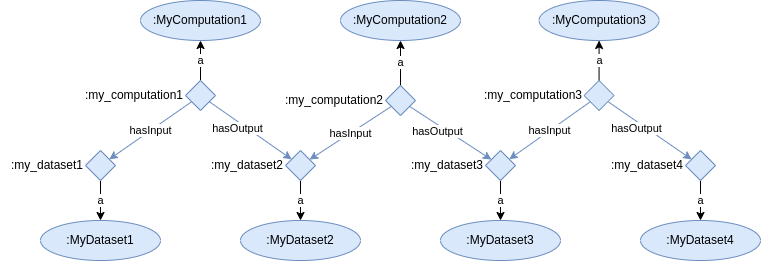
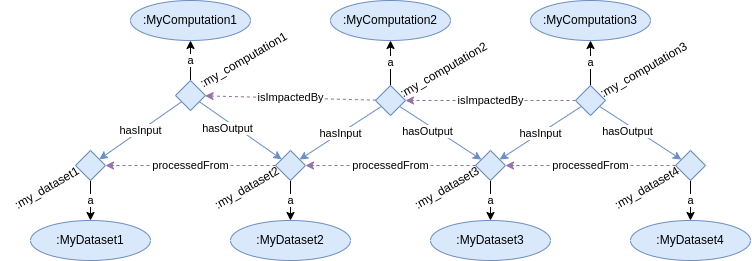
Documented the remaining steps.

diff --git a/examples/tools/README.md b/examples/tools/README.md
@@ -2,6 +2,8 @@
 
 This example is intended to be a simple guide for how to step-by-step semantically document software tools, datasets and workflows.
 
+The aim of the documentation is to enhance reusability by providing context in the form of [linked data], that relates the various resources to each other using relations with semantically well-defined meaning.
+
 - [Important underlying principles](#important-underlying-principles)
   - [Individuals versus Classes](#individuals-versus-classes)
   - [Documenting the processes and their relationships to potential real datasets](#documenting-the-processes-and-their-relationships-to-potential-real-datasets)
@@ -9,22 +11,24 @@ This example is intended to be a simple guide for how to step-by-step semantical
 - [How to do this in practice](#how-to-do-this-in-practice)
   - [1. Documentation of software tools](#1-documentation-of-software-tools)
   - [2. Documentation of related resources](#2-documentation-of-related-resources)
-  - [3. Documentation of dataset types](#3-documentation-of-dataset-types)
+  - [3. Documentation of computation and dataset types](#3-documentation-of-computation-and-dataset-types)
   - [4. Documentation of actual datasets](#4-documentation-of-actual-datasets)
   - [5. Documentation of executed workflows](#5-documentation-of-executed-workflows)
   - [6. Documentation of content of datasets](#6-documentation-of-content-of-datasets)
+-[List of templates](#list-of-templates)
 
 
 ## Important underlying principles ##
 
 ### Individuals versus Classes ###
 
-We distinguish between individuals and classes. Individuals are specific instances of a concept, while classes are general categories that can have multiple instances. For example, a specific software tool would be an individual, while the category of software tools would be a class.
+We distinguish between individuals and classes.
+Individuals are specific instances of a concept, while classes are general categories that can have multiple instances. For example, a specific software tool would be an individual, while the category of software tools would be a class.
 
 
 ### Documenting the processes and their relationships to potential real datasets ###
 
-The figure below illustrates the documentation of software tools the type of computation they implements and the type of datasets it takes as input and output (step 1 to 3 under [How to do this in practice]).
+The figure below illustrates the documentation of software tools the type of computation they implements and the type of datasets it takes as input and output (step 1 to 3 under [How to do this in practice](#how-to-do-this-in-practice)).
 Here a **computation class** is related to a **software individual** and the types of datasets (i.e. **dataset classes**) it takes as input and output.
 It is important to realise that at this level of the documentation we focus on documenting the processes that we can run and their relationships to potential real datasets.
 
@@ -45,12 +49,13 @@ The main interface for this semantic documentation is simple spreadsheets with w
 The names in the column headers are under the hood mapped to ontological concepts via a [JSON-LD] context.
 However, a normal user is not exposed to the complexity of semantic technologies.
 The important thing to understand is that these headers are not just arbitrary names, but they have a specific meaning in the context of semantic documentation.
-Instead, the user is presented with a simple set of [spreadsheet templates].
+Instead, the user is presented with a simple set of spreadsheet [templates].
 Each documented resource will be a row in one of these templates.
 
 Since the FAIR principles demand that all resources must have a globally [unique and persistent identifier], all the templates have a column labeled "@id".
 This column should contain an IRI.
-These IRIs can be written is as [URI]s, like <https://he-matchmaker.eu/resource/my_software>, or as compact URIs (so-called [CURIE]s), like mm:my_software, where the prefix `mm` is a shorthand for the namespace <https://he-matchmaker.eu/resource/>, intended for MatCHMaker-owned resources.
+These IRIs can be written is as [URI]s, like <https://he-matchmaker.eu/resource/my_software>, or as compact URIs (so-called [CURIE]s), like mm:my_software,
+where the prefix `mm` is a shorthand for the namespace <https://he-matchmaker.eu/resource/>, intended for MatCHMaker-owned resources.
 
 For semantics, it is also important to document the type of the resource.
 Hence, all templates also have a column labeled "@type".
@@ -64,41 +69,182 @@ For a minimal documentation of a software tool, the user should fill in table su
 See the [software template] for a more elaborate template.
 Note that software tools are documented as individials in the ontology, and not as classes, since we are documenting specific instances of software tools, and not general categories of software tools.
 
-| @id | @type | title | description |
-|-----|-------|-------|-------------|
-|     |       |       |             |
+| @id            | @type         | title       | description                   |
+|----------------|---------------|-------------|-------------------------------|
+| mm:my_software | emmo:Software | My Software | Description of my software... |
 
 The expected values for each column are:
 
 - **@id**: Unique persistent identifier, in the form of an [URI] or [CURIE].
 - **@type**: Type of the software. In the general case, it could be `emmo:Software`, but if a more specialised subclass is known, it should be used. This must refer to a concept in an ontology, such as the [EMMO], and not to a free text string.
 - **title**: Name or title of the software as a string.
-- **description**: A human readable description of the software, also a string.
+- **description**: A human readable description of the software as a string.
 
 
 ### 2. Documentation of related resources ###
 
-The aim of the documentation is to enhance reusability by providing context in the form of [linked data], that relates the various resources to each other using relations with semantically well-defined meaning.
+The minimal documentation in the previous section does not provide sufficient information to access and use it.
+For that, we will add a few additional columns to our table:
 
-Hence, the table in the previous section can be extended with additional columns.
+| @id            | @type         | title       | description                   | rightsHolder              | license                                      | landingPage                                   |
+|----------------|---------------|-------------|-------------------------------|---------------------------|----------------------------------------------|-----------------------------------------------|
+| mm:my_software | emmo:Software | My Software | Description of my software... | https://ror.org/0422tvz87 | https://creativecommons.org/licenses/by/4.0/ | https://github.com/HEU-MatCHMaker/my_software |
+
+Meaning of the extra columns:
+
+- **rightsHolder**: URI to a person or organisation owning or managing rights over the software.
+  You will typically refer to people by their [ORCID] or similar.
+  Organisations may be referred to by their [ROR] ID or webpage URL.
+- **license**: URL to a legal document under which the distribution is made available.
+  If your software doesn't have a license yet, it is highly recommended that you give it a license.
+  Without a clear license, it is not possible to use the software.
+  See the this [list of standard open-source licenses] and the [license chooser].
+- **landingPage**: URL to a web page that provides access to the software and/or additional information about it.
+
+The [templates] folder includes a [template for agents][agents template].
+In principle you will not need this table, since the agents referred to in, e.g. the *rightsHolder* column, should be fully documented by the site the URI is referring to.
+However, the [agents template] may still be useful to fill out to ensure that we use a unique URI when referring to the same agent or in the case that the URI is not resolvable.
 
 
-### 3. Documentation of dataset types ###
+### 3. Documentation of computation and dataset types ###
+
+As shown in the first figure on this page, we want to document the computation procedure and relate it to the software with which the computation is performed as well as to the types of datasets it takes as input and output.
+As mentioned [above](#documenting-the-processes-and-their-relationships-to-potential-real-datasets), it is important to notice that we here want to document a computation procedure (that can be executed many times) and not a specific execution.
+The same is the case for the dataset types.
+It is not actual datasets we want to document, but the type of datasets that the computation takes as input and output.
+
+Class-level documentation of computations:
+
+| @id              | @type     | subClassOf       | label         | definition                                           | hasInput      | hasOutput     | isComputedBy   |
+|------------------|-----------|------------------|---------------|------------------------------------------------------|---------------|---------------|----------------|
+| mm:MyComputation | owl:Class | emmo:Computation | MyComputation | Definition of this specific computation procedure... | mm:MyDataset1 | mm:MyDataset2 | mm:my_software |
+
+Class-level documentation of dataset types:
+
+| @id           | @type     | subClassOf   | label      | definition               |
+|---------------|-----------|--------------|------------|--------------------------|
+| mm:MyDataset1 | owl:Class | emmo:Dataset | MyDataset1 | Definition of dataset 1. |
+| mm:MyDataset2 | owl:Class | emmo:Dataset | MyDataset2 | Definition of dataset 2. |
+
+Meaning of the columns:
+
+- **@id**: Unique persistent identifier, in the form of an [URI] or [CURIE].
+- **@type**: For class-level documentation, this should be [owl:Class].
+- **subClassOf**: The superclass. This should be [emmo:Computation] and [emmo:Dataset] for the computations and datasets, respectively.
+- **label**: A label for the class. Class labels are typically written in [UpperCamelCase].
+- **definition**: A human readable definition of the class.
+- **hasInput**: IRI of an input dataset type documented in the dataset types table.
+- **hasOutput**: IRI of an output dataset type documented in the dataset types table.
+- **isComputedBy**: IRI of a software documented in the software table that is executing this computation.
 
 
 ### 4. Documentation of actual datasets ###
 
+W3C has created the [DCAT] vocabulary as a standard way to document datasets.
+The documentation of datasets will be based on this vocabulary, but may extended with additional concepts needed for describing materials science datasets.
+
+The table below shows a simple generic example of documentation of a few datasets.
+
+| @id            | @type         | title     | description               | rightsHolder              | license                                      | creator                               | distribution.downloadURL                                                                                              |
+|----------------|---------------|-----------|---------------------------|---------------------------|----------------------------------------------|---------------------------------------|-----------------------------------------------------------------------------------------------------------------------|
+| mm:my_dataset1 | mm:MyDataset1 | Dataset 1 | Description of dataset 1. | https://ror.org/0422tvz87 | https://creativecommons.org/licenses/by/4.0/ | https://orcid.org/0000-0002-1560-809X | https://raw.githubusercontent.com/HEU-MatCHMaker/DataDocumentation/refs/heads/master/examples/tools/data/dataset1.txt |
+| mm:my_dataset2 | mm:MyDataset2 | Dataset 2 | Description of dataset 2. | https://ror.org/0422tvz87 | https://creativecommons.org/licenses/by/4.0/ | https://orcid.org/0000-0002-1560-809X | https://raw.githubusercontent.com/HEU-MatCHMaker/DataDocumentation/refs/heads/master/examples/tools/data/dataset2.txt |
+| mm:my_dataset3 | mm:MyDataset3 | Dataset 3 | Description of dataset 3. | https://ror.org/0422tvz87 | https://creativecommons.org/licenses/by/4.0/ | https://orcid.org/0000-0002-1560-809X | https://raw.githubusercontent.com/HEU-MatCHMaker/DataDocumentation/refs/heads/master/examples/tools/data/dataset3.txt |
+| mm:my_dataset4 | mm:MyDataset4 | Dataset 4 | Description of dataset 4. | https://ror.org/0422tvz87 | https://creativecommons.org/licenses/by/4.0/ | https://orcid.org/0000-0002-1560-809X | https://raw.githubusercontent.com/HEU-MatCHMaker/DataDocumentation/refs/heads/master/examples/tools/data/dataset4.txt |
+
+It is often possible to generate the above table using a script that traverse the folder structure where you have your datasets are stored.
+
+Most of the columns have already been described above, except for `creator` and `distribution.downloadURL`.
+In addition to these, there are a set of common columns that also could be included:
+
+- **creator**: URI of the person or organisation creating the dataset.
+- **publisher**: URI of the person or organisation that makes the dataset available.
+- **identifier**: A unique identifier (in addition to the `@id`) of the dataset.
+- **distribution.accessURL**: URL of a resource that gives access to a distribution of the dataset. E.g. a landing page or feed or database.
+- **distribution.accessService**: URL of a data service that gives access to the distribution of the dataset.
+- **distribution.downloadURL**: URL of a downloadable file containing the dataset.
+- **distribution.mediaType**: The media type of the distribution as defined by [IANA]. Example: [iana:text/csv].
+- **distribution.format**: The file format of the distributed dataset. Use `distribution.mediaType` if the format is defined by [IANA].
+- **version**: The version indicator (name or identifier) of a resource.
+- **previousVersion**: IRI to the previous version of a resource.
+- **status**: The status of the resource. Use one of the values: [stat:Completed], [stat:Deprecated], [stat:UnderDevelopment], [stat:Withdrawn].
+- **conformsTo**: URI to an established standard to which the described resource conforms.
+- **releaseDate**: Date of formal issuance (e.g., publication) of the resource. Written as 'YYYY-MM-DD', optionally followed by the time, e.g. "2026-03-05T21:20:12".
+
 
 ### 5. Documentation of executed workflows ###
+
+At this stage, to document the full provenance of your workflows, all you need to do is to create a table with performed computation that lists the input and output datasets:
+
+| @id                | @type             | description | hasInput       | hasOutput      |
+|--------------------|-------------------|-------------|----------------|----------------|
+| mm:my_computation1 | mm:MyComputation1 |             | mm:my_dataset1 | mm:my_dataset2 |
+| mm:my_computation2 | mm:MyComputation2 |             | mm:my_dataset2 | mm:my_dataset3 |
+| mm:my_computation3 | mm:MyComputation3 |             | mm:my_dataset3 | mm:my_dataset4 |
+
+Like for step 4, this table can often be generated by the same script you used to generate the table of dataset individuals.
 
 
 ### 6. Documentation of content of datasets ###
 
+To enable interoperability, you can document the datum (or properties) within your datasets by extending the table of dataset types from step 3.
+From the added columns, it is possible to generate DLite data models that describes the internal structure of the datasets.
+
+| @id           | @type     | subClassOf   | label      | definition               | datumName[1] | datumType[1] | datumUnit[1] | datumShape[1] | datumDescription[1]            | datumMapping[1]      | datumName[2] | datumType[2] | datumUnit[2] | datumShape[2] | datumDescription[2]       | datumMapping[2]      |
+|---------------|-----------|--------------|------------|--------------------------|--------------|--------------|--------------|---------------|--------------------------------|----------------------|--------------|--------------|--------------|---------------|---------------------------|----------------------|
+| mm:MyDataset1 | owl:Class | emmo:Dataset | MyDataset1 | Definition of dataset 1. | smiles       | string       |              |               | SMILES string of the molecule. | emmo:SMILESReference | mass         | float64      | u            |               | Atomic mass of molecule.  | emmo:Mass            |
+| mm:MyDataset2 | owl:Class | emmo:Dataset | MyDataset2 | Definition of dataset 2. | bond_length  | float        | Å            | nbonds        | Length of each atomic bond.    | atomistic:BondLength | bond_energy  | float        | eV           | nbonds        | Bond energy of each bond. | atomistic:BondEnergy |
+
+The meaning of the added columns are:
+- **datumName**: A local name of the datum/property. Should be a string without spaces.
+- **datumType**: Type of the datum/property. Use one of bool, int, float, string. For int and float the number of bits can be added. E.g. int32, float64.
+- **datumUnit**: Unit of the datum/property. Leave empty if dimensionless.
+- **datumShape**: Comma-separated list of the dimension names if the datum/property is multi-dimensional. Leave empty if it is a scalar.
+- **datumDescription**: Human-readable description of the datum/property.
+- **datumMapping**: IRI of the concept(s) in the ontology that defines the datum/property.
+
+
+## List of templates ##
+
+* [agents.csv](https://github.com/HEU-MatCHMaker/DataDocumentation/tree/master/examples/tools/templates/agents.csv)
+* [computations.csv](https://github.com/HEU-MatCHMaker/DataDocumentation/tree/master/examples/tools/templates/computations.csv)
+* [computation-classes.csv](https://github.com/HEU-MatCHMaker/DataDocumentation/tree/master/examples/tools/templates/computation-classes.csv)
+* [datasets.csv](https://github.com/HEU-MatCHMaker/DataDocumentation/tree/master/examples/tools/templates/datasets.csv)
+* [dataset-classes.csv](https://github.com/HEU-MatCHMaker/DataDocumentation/tree/master/examples/tools/templates/dataset-classes.csv)
+* [software.csv](https://github.com/HEU-MatCHMaker/DataDocumentation/tree/master/examples/tools/templates/software.csv)
+
+
+These templates can be extended with additional columns.
+The [Tripper] documentation provides a list of [pre-defined keywords] that can be used as a column header.
+
+See [user-defined keywords] in the [Tripper] documentation for how to extend the list of supported keywords.
 
 
 [JSON-LD]: https://json-ld.org/
-[spreadsheet templates]: https://github.com/HEU-MatCHMaker/DataDocumentation/tree/master/examples/tools/templates
-[software template]: https://github.com/HEU-MatCHMaker/DataDocumentation/tree/master/examples/tools/templates/software.csv
+[unique and persistent identifier]: https://faircookbook.elixir-europe.org/content/recipes/findability/identifiers.html
+[ORCID]: https://orcid.org/
+[ROR]: https://ror.org/
 [URI]: https://en.wikipedia.org/wiki/Uniform_Resource_Identifier
 [CURIE]: https://www.w3.org/TR/2010/NOTE-curie-20101216/
 [linked data]: https://en.wikipedia.org/wiki/Linked_data
+[license chooser]: https://choosealicense.com/
+[list of standard open-source licenses]: https://choosealicense.com/appendix/
+[UpperCamelCase]: https://en.wikipedia.org/wiki/Camel_case
+[DCAT]: https://www.w3.org/TR/vocab-dcat-3/
+[DCAT-AP]: https://semiceu.github.io/DCAT-AP/releases/3.0.1/
+[PROV-O]: https://www.w3.org/TR/prov-o/
+[Tripper]: https://emmc-asbl.github.io/tripper/
+[pre-defined keywords]: https://emmc-asbl.github.io/tripper/latest/datadoc/keywords/
+[user-defined keywords]: https://emmc-asbl.github.io/tripper/latest/datadoc/customisation/#user-defined-keywords
+[templates]: https://github.com/HEU-MatCHMaker/DataDocumentation/tree/master/examples/tools/templates
+[software template]: https://github.com/HEU-MatCHMaker/DataDocumentation/tree/master/examples/tools/templates/software.csv
+[agents template]: https://github.com/HEU-MatCHMaker/DataDocumentation/tree/master/examples/tools/templates/agents.csv
+[owl:Class]: http://www.w3.org/2002/07/owl#Class
+[emmo:Computation]: https://w3id.org/emmo#Computation
+[emmo:Dataset]: https://w3id.org/emmo#Dataset
+[stat:Completed]: http://purl.org/adms/status/Completed
+[stat:Deprecated]: http://purl.org/adms/status/Deprecated
+[stat:UnderDevelopment]: http://purl.org/adms/status/UnderDevelopment
+[stat:Withdrawn]: http://purl.org/adms/status/Withdrawn
+[IANA]: https://www.iana.org/assignments/media-types/
+[iana:text/csv]: https://www.iana.org/assignments/media-types/text/csv
